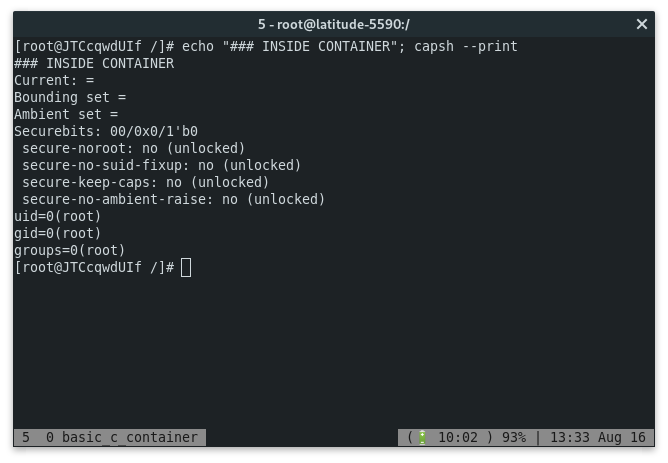
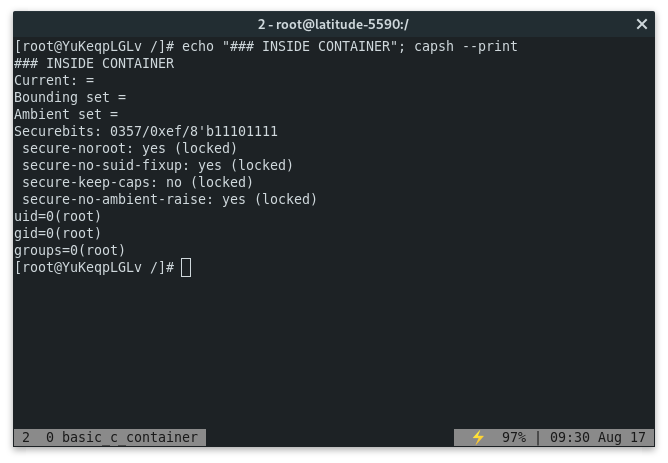
add secbits to process control

diff --git a/src/main.c b/src/main.c
@@ -16,6 +16,7 @@
 #include <dirent.h>
 #include <errno.h>
 #include <linux/capability.h>
+#include <linux/securebits.h>
 #include <sched.h>
 #include <signal.h>
 #include <stdio.h>
@@ -247,6 +248,15 @@ void drop_capabilities()
             return;
         }
     }
+
+    // set securebits:
+    //
+    prctl(PR_SET_SECUREBITS,
+                     SECBIT_NOROOT |
+                     SECBIT_NO_SETUID_FIXUP |
+                     SECBIT_KEEP_CAPS |
+                     SECBIT_NO_CAP_AMBIENT_RAISE |
+                     SECURE_ALL_LOCKS);
 
     // dropping inheritable capabilities
     cap_t caps = NULL;
